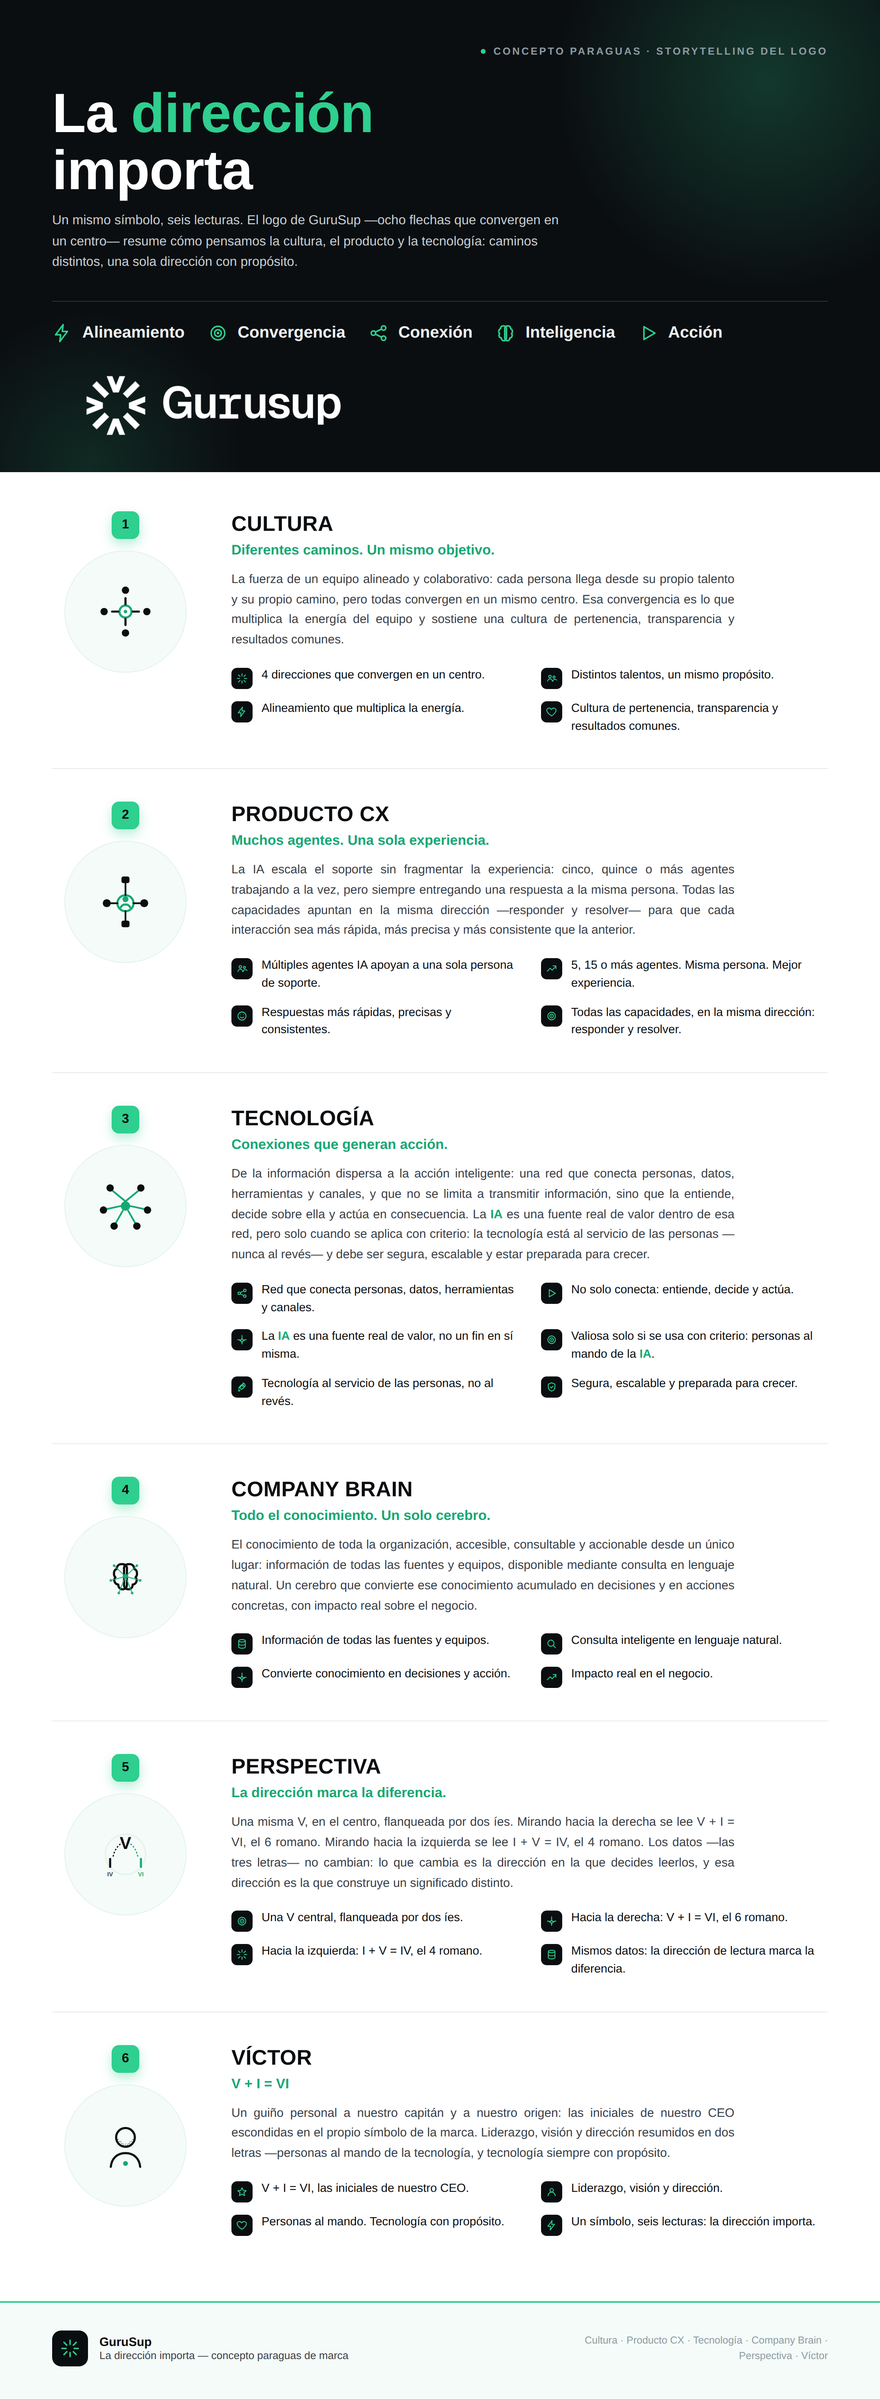
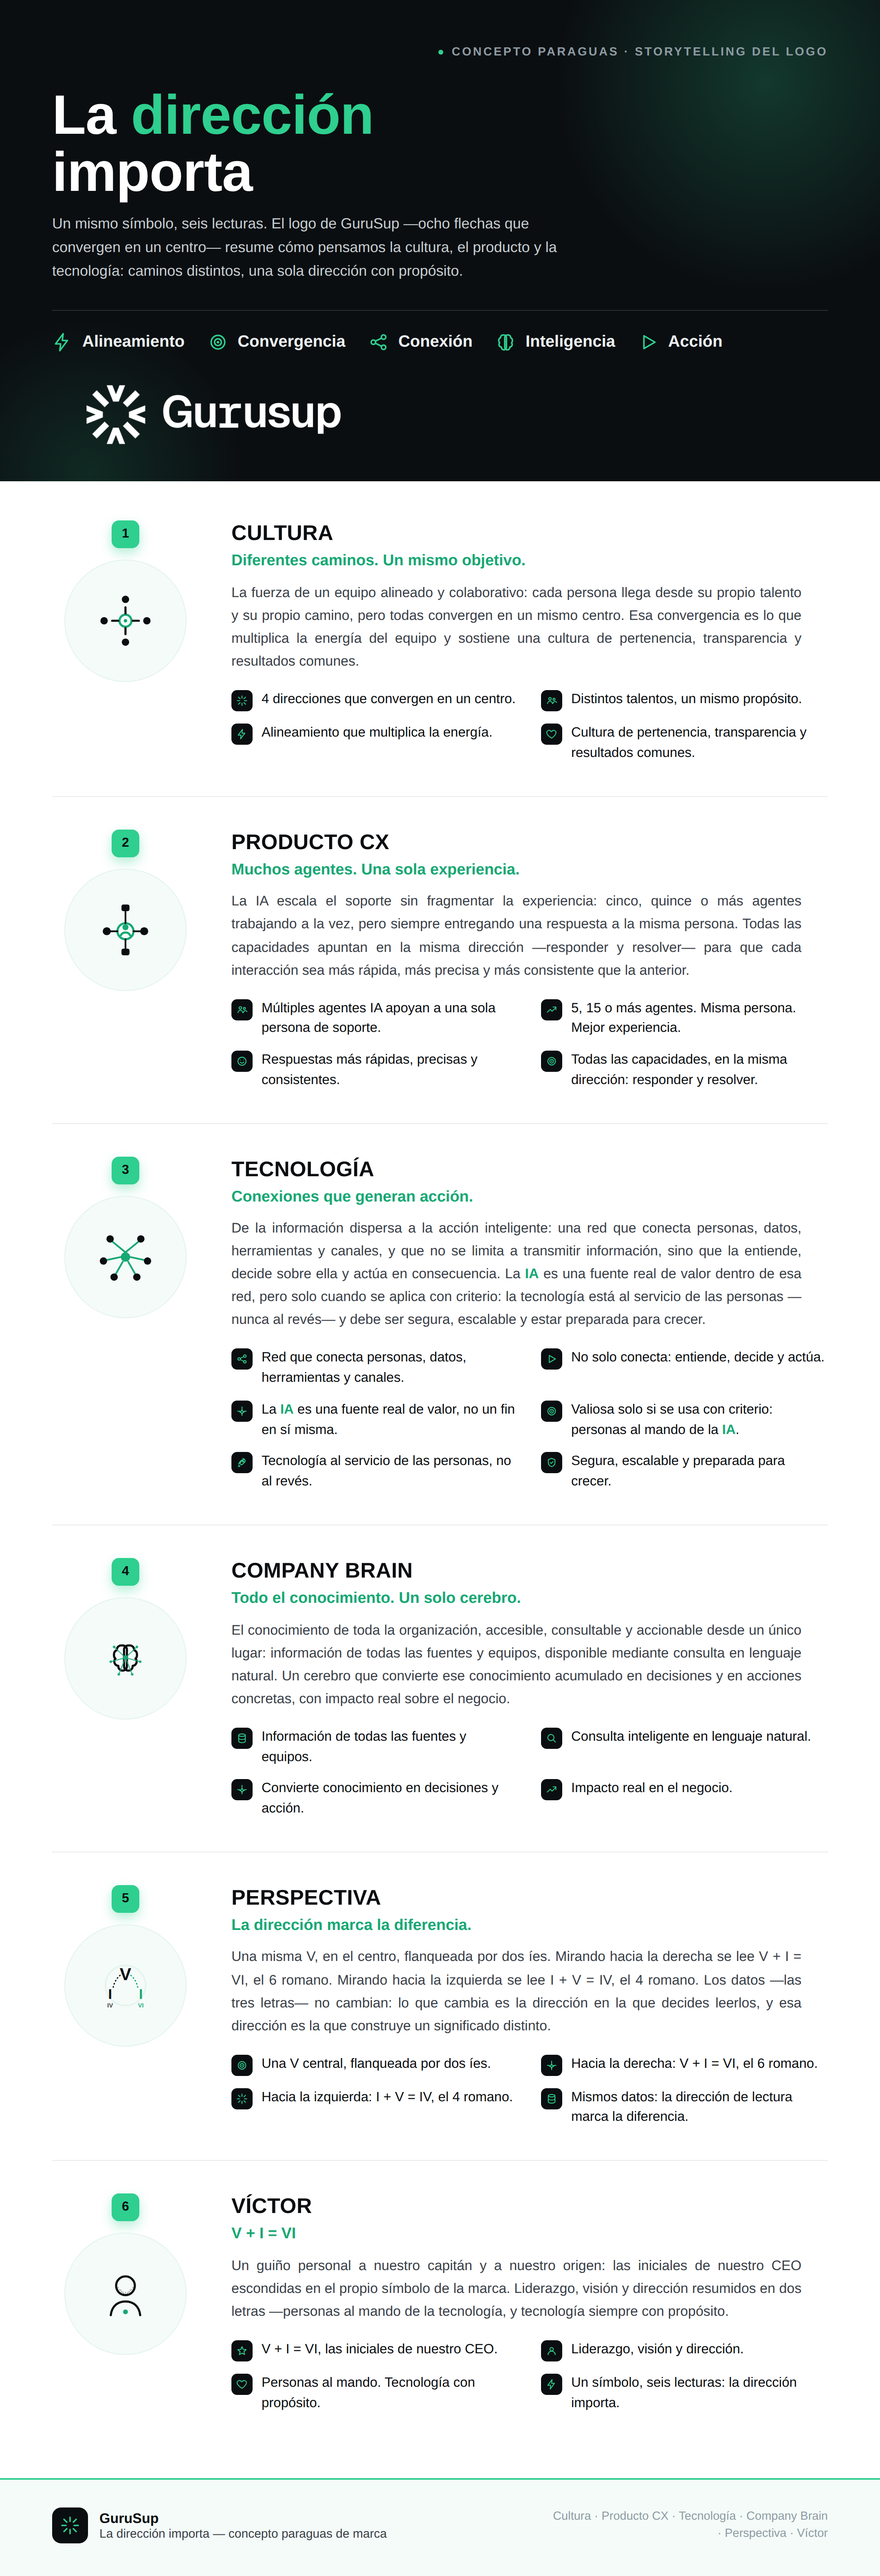
Aumenta el tamaño de párrafos y textos de la infografía
Sube ~2px el cuerpo de texto (lead del hero, taglines, párrafos
introductorios, bullets, kicker y pie de página) para mejorar la
legibilidad general.

Claude-Session: https://claude.ai/code/session_019WmuM4uE7b9LjzLhY7VJCf

diff --git a/infografia/gurusup-direccion-importa.html b/infografia/gurusup-direccion-importa.html
@@ -55,7 +55,7 @@
   .logo-lockup .logo-word{ height:48px; display:block; }
   .kicker{
     display:flex; align-items:center; gap:10px;
-    font-size:12.5px; letter-spacing:2.2px; font-weight:700;
+    font-size:14.5px; letter-spacing:2.2px; font-weight:700;
     color:#8E9BA3; text-transform:uppercase;
   }
   .kicker .dot{width:6px;height:6px;border-radius:50%;background:var(--green);}
@@ -69,7 +69,7 @@
   .hero p.lead{
     position:relative; z-index:2;
     max-width:640px; margin:14px 0 0;
-    color:#C7CED2; font-size:16px; line-height:1.6;
+    color:#C7CED2; font-size:18px; line-height:1.6;
   }
   .concept-row{
     position:relative; z-index:2;
@@ -111,12 +111,12 @@
   .content-col .sd .hl{ color:var(--green-dark); font-weight:800; }
   .bullet p .hl{ color:var(--green-dark); font-weight:800; }
   .content-col .tagline{
-    color:var(--green-dark); font-weight:700; font-size:17px;
+    color:var(--green-dark); font-weight:700; font-size:19px;
     margin:0 0 12px; line-height:1.35;
   }
   .content-col .sd{
     max-width:74ch;
-    color:var(--ink-soft); font-size:15px; line-height:1.65;
+    color:var(--ink-soft); font-size:17px; line-height:1.65;
     text-align:justify; text-justify:inter-word;
     text-wrap:pretty;
     margin:0 0 20px;
@@ -131,7 +131,7 @@
     margin-top:1px;
   }
   .bullet .ic svg{ width:14px;height:14px; color:var(--green); }
-  .bullet p{ margin:0; font-size:14.5px; line-height:1.5; color:var(--ink); }
+  .bullet p{ margin:0; font-size:16.5px; line-height:1.5; color:var(--ink); }
 
   /* ===== FOOTER ===== */
   .footer{
@@ -146,9 +146,9 @@
     display:flex;align-items:center;justify-content:center;
   }
   .footer-left .sq svg{ width:24px;height:24px; }
-  .footer-left b{ display:block; font-size:15px; }
-  .footer-left span{ display:block; font-size:13px; color:var(--ink-soft); }
-  .footer-right{ font-size:12.5px; color:#8E9BA3; text-align:right; max-width:340px; line-height:1.5; }
+  .footer-left b{ display:block; font-size:17px; }
+  .footer-left span{ display:block; font-size:15px; color:var(--ink-soft); }
+  .footer-right{ font-size:14.5px; color:#8E9BA3; text-align:right; max-width:340px; line-height:1.5; }
 </style>
 </head>
 <body>
